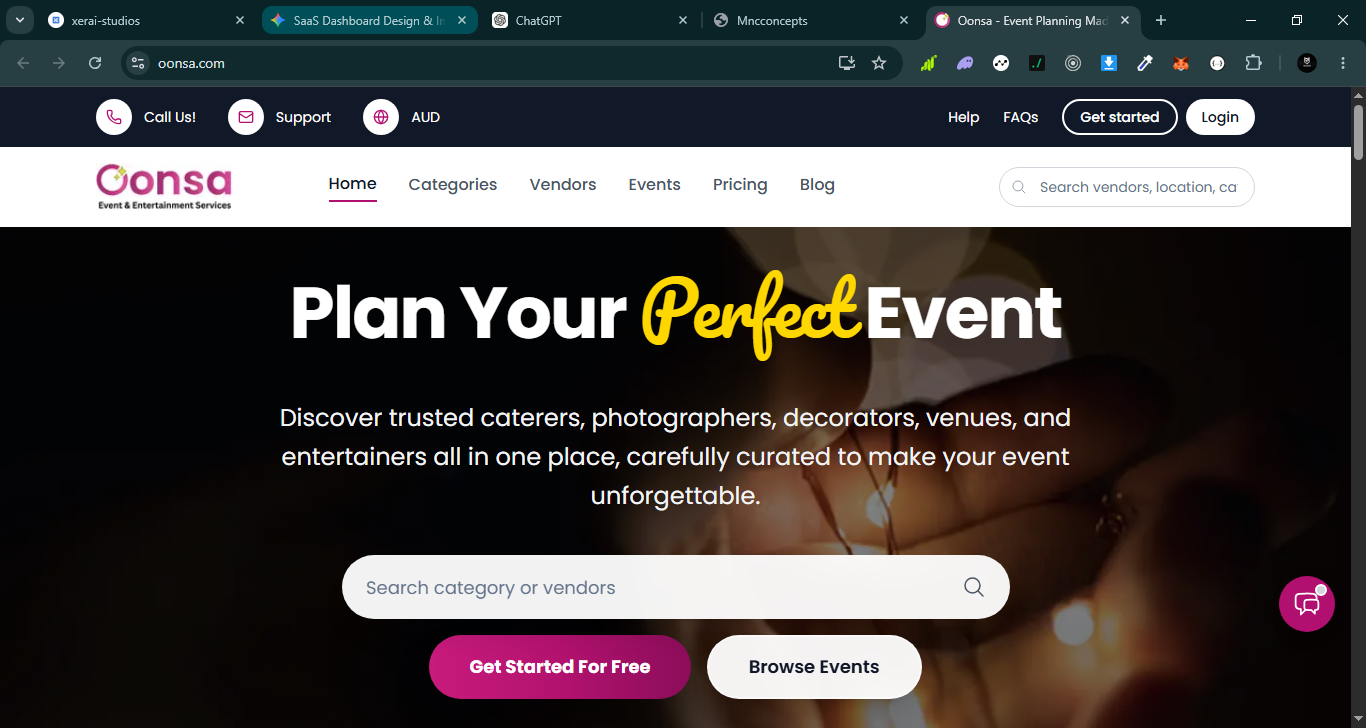
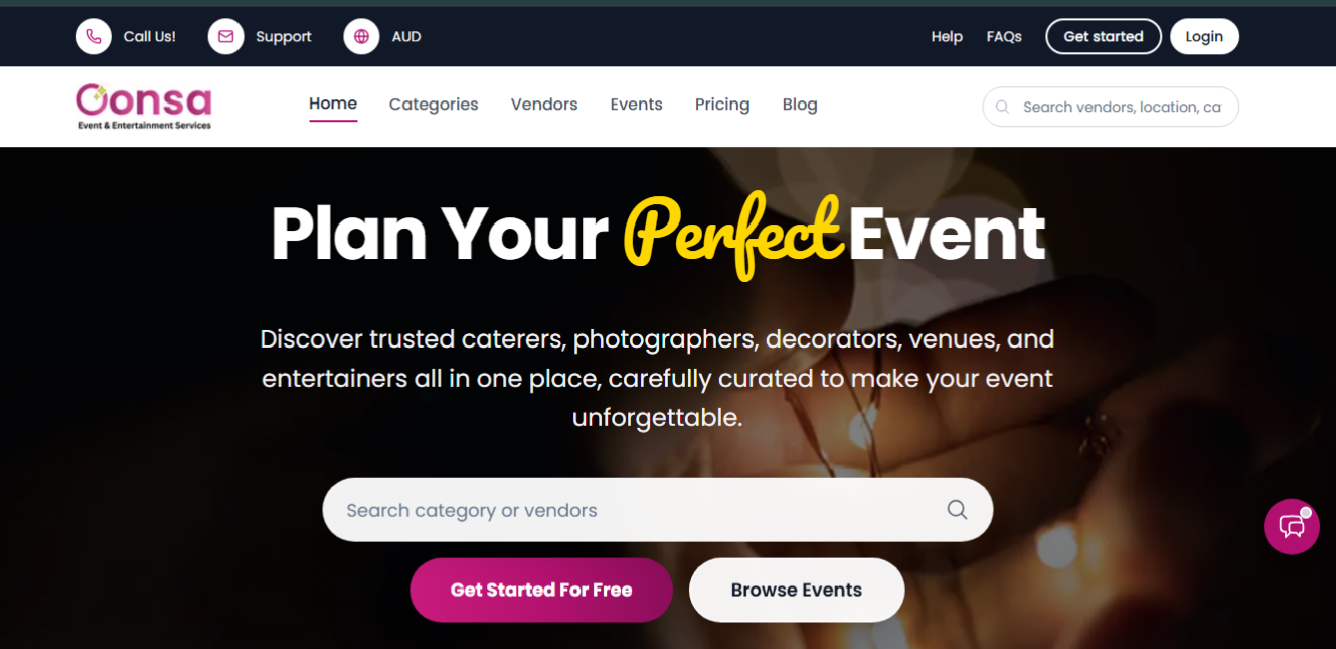
redoit

diff --git a/src/pages/Projects.tsx b/src/pages/Projects.tsx
@@ -9,7 +9,6 @@ import BookCallSheet from "@/components/BookCallSheet";
 
 // Asset Imports
 import projPearlzStore from "@/assets/proj-pearlz-store.png";
-import projStoreapp2 from "@/assets/proj-storeapp2.png";
 import Oonsa from "@/assets/Oonsa.png";
 import projOma from "@/assets/proj-oma.png";
 import projPaywithpi from "@/assets/proj-paywithpi.png";
@@ -17,9 +16,10 @@ import post2dap from "@/assets/post-2dap.png";
 import visaguard from "@/assets/visaguard.jpg";
 import vgalanding from "@/assets/vgalanding.jpg";
 import logoo1 from "@/assets/logoo1.png";
-import logoo2 from "@/assets/logoo2.png";
+import logoo0 from "@/assets/logoo0.png";
 import logoo3 from "@/assets/logoo3.png";
 import logoo4 from "@/assets/logoo4.png";
+import projstoreapp22 from "@/assets/proj-storeapp22.png";
 
 const projects = [
   {
@@ -33,8 +33,8 @@ const projects = [
     caseStudySlug: "Visa-guard-africa App-Landing",
   },
   {
-    title: "Visa Guard Landing Page",
-    category: "DESIGN · DEVELOPMENT · FULL STACK · APP LANDING",
+    title: "Visa Guard Africa Landing Page",
+    category: "DESIGN · DEVELOPMENT · FULL STACK · APP LANDING - WEB",
     description: "A secure visa platform designed to protect Africans from visa scams. Features real-time verification, fraud detection, and a seamless application tracking system.",
     year: "Coming Soon",
     tech: ["Figma", "React", "Node.js", "TypeScript", "MongoDB", "Express"],
@@ -45,8 +45,8 @@ const projects = [
   
   {
     title: "Oonsa Event WebApp",
-    category: "UI/UX DESIGN · WEBSITE",
-    description: "A modern event management app designed to simplify event discovery, ticketing, and planning.",
+    category: "UI/UX DESIGN · WEB-APP",
+    description: "A modern event management app designed to simplify event discovery, ticketing, and planning within Austrailia.",
     year: "2025",
     tech: ["Figma", "Adobe XD", "Illustrator", "Photoshop"],
     image: Oonsa,
@@ -59,7 +59,7 @@ const projects = [
     description: "A mobile marketplace app connecting buyers and sellers in Computer Village. Designed in Figma and built with Flutter.",
     year: "2025",
     tech: ["Flutter", "Figma", "Dart", "Firebase"],
-    image: projStoreapp2,
+    image: projstoreapp22,
     link: "https://cvmarket.ng",
     caseStudySlug: "CVMP App",
   },
@@ -119,7 +119,7 @@ const projects = [
     description: "An ultra-modern brand asset system and logo layout designed for an advanced social media growth engine, matching precision analytics with clean aesthetics.",
     year: "2026",
     tech: ["Illustrator", "Photoshop", "Branding"],
-    image: logoo2,
+    image: logoo0,
     link: null,
     caseStudySlug: null,
   },
@@ -184,10 +184,11 @@ const Projects = () => {
             animate={{ opacity: 1, y: 0 }}
             transition={{ duration: 0.8, ease: [0.16, 1, 0.3, 1] }}
           >
-            <span className="inline-block px-3 py-1 rounded-full bg-secondary text-[10px] font-bold tracking-[0.2em] uppercase mb-6 border border-border">
-              Portfolio
-            </span>
-            <h1 className="font-display text-6xl sm:text-6xl lg:text-8xl font-extrabold tracking-tight leading-[0.9] mb-8">
+            <div className="inline-flex items-center gap-2 px-3 py-1 rounded-full border border-border bg-foreground/5 mb-6">
+              <span className="w-1 h-1 rounded-full bg-foreground animate-pulse" />
+              <span className="text-[10px] font-bold text-foreground tracking-widest uppercase">Selected Projects</span>
+            </div>
+            <h1 className="font-display text-6xl sm:text-6xl lg:text-7xl font-extrabold tracking-tight leading-[0.9] mb-8">
               All Selected <br />
               <span className="text-muted-foreground/40"> Projects </span>
             </h1>

diff --git a/src/pages/Index.tsx b/src/pages/Index.tsx
@@ -226,13 +226,13 @@ const Index = () => {
                   <span className="relative inline-flex rounded-full h-2 w-2 bg-primary" />
                 </span>
                 <Sparkles className="w-3.5 h-3.5 text-primary shrink-0" />
-                <span className="text-xs font-small text-primary tracking-wide uppercase">
+                <span className="text-xs font-small text-primary tracking-tight uppercase">
                   Design & Development
                 </span>
               </div>
             </div>
 
-            <h1 className="font-display text-6xl sm:text-6xl lg:text-7xl font-extrabold leading-[1.05] tracking-tighter text-foreground mb-4">
+            <h1 className="font-Display text-6xl sm:text-6xl lg:text-7xl font-extrabold leading-[1.05] tracking-tighter text-foreground mb-4">
               <TypewriterText
                 text="Creating Digital Experiences That Work."
                 speed={55}
@@ -321,7 +321,7 @@ const Index = () => {
             <div className="absolute -inset-4 rounded-2xl border border-border/40 bg-secondary/20 backdrop-blur-sm -z-10" />
             <div className="absolute -inset-1 rounded-xl bg-gradient-to-br from-primary/10 via-transparent to-blue-500/10 -z-10" />
 
-            <div className="aspect-[4/3] overflow-hidden rounded-xl border border-border/60 shadow-2xl">
+            <div className="aspect-[4/3] overflow-hidden rounded-xl border border-border/60 shadow-1xl">
               <SkeletonImage
                 src="/proj-oma.png"
                 alt="Featured project preview"
@@ -329,7 +329,7 @@ const Index = () => {
               />
             </div>
 
-            <div className="absolute -bottom-5 -left-6 flex items-center gap-3 bg-card border border-border rounded-xl px-4 py-3 shadow-xl backdrop-blur-md">
+            <div className="absolute -bottom-5 -left-6 flex items-center gap-3 bg-card border border-border rounded-xl px-4 py-3 shadow-m backdrop-blur-md">
               <div className="w-8 h-8 rounded-lg bg-primary/10 flex items-center justify-center">
                 <span><ArrowUpRight className="w-4 h-4" /></span>
               </div>
@@ -343,7 +343,7 @@ const Index = () => {
               </div>
             </div>
 
-            <div className="absolute -top-4 -right-4 flex items-center gap-2 bg-card border border-border rounded-full px-3 py-2 shadow-lg">
+            <div className="absolute -top-4 -right-4 flex items-center gap-2 bg-card border border-border rounded-full px-3 py-2 shadow-l">
               <span className="relative flex h-2 w-2">
                 <span className="animate-ping absolute inline-flex h-full w-full rounded-full bg-emerald-400 opacity-75" />
                 <span className="relative inline-flex rounded-full h-2 w-2 bg-emerald-500" />
@@ -410,7 +410,7 @@ const Index = () => {
                 whileInView={{ opacity: 1, y: 0 }}
                 viewport={{ once: true }}
                 transition={{ delay: i * 0.12 }}
-                className="group bg-card border border-border rounded-2xl overflow-hidden shadow-sm hover:shadow-xl hover:-translate-y-1 transition-all duration-300 flex flex-col"
+                className="group bg-card border border-border rounded-2xl overflow-hidden shadow-xm hover:shadow-l hover:-translate-y-1 transition-all duration-300 flex flex-col"
               >
                 <div className="relative w-full h-48 bg-secondary overflow-hidden">
                   <SkeletonImage
@@ -492,7 +492,7 @@ const Index = () => {
               >
                 <Link
                   to="/projects"
-                  className="group flex flex-col bg-card border border-border rounded-2xl overflow-hidden shadow-sm hover:shadow-xl hover:-translate-y-1.5 transition-all duration-300 h-full"
+                  className="group flex flex-col bg-card border border-border rounded-2xl overflow-hidden shadow-sm hover:shadow-xm hover:-translate-y-1.5 transition-all duration-300 h-full"
                 >
                   <div
                     className={`relative h-52 overflow-hidden bg-gradient-to-br ${project.color}`}

diff --git a/src/pages/About.tsx b/src/pages/About.tsx
@@ -50,7 +50,7 @@ const experience = [
     period: "Present",
     type: "Full-time",
     description:
-      "Leading product design for startups and established brands. Creating user-centered designs, conducting user research, building prototypes, and delivering scalable design systems that drive business outcomes.",
+      "Leading product design and development team for startups and established brands. Creating user-centered designs, conducting user research, building prototypes, and delivering scalable design systems that drive business outcomes.",
     icon: Palette,
   },
   {
@@ -118,9 +118,9 @@ const About = () => {
             animate={{ opacity: 1, y: 0 }}
             transition={{ duration: 0.9, ease: [0.22, 1, 0.36, 1] }}
           >
-            <div className="inline-flex items-center gap-2 px-3.5 py-1.5 rounded-full border border-border bg-secondary mb-6">
-              <span className="w-1.5 h-1.5 rounded-full bg-foreground animate-pulse" />
-              <span className="text-xs font-medium text-foreground tracking-wide uppercase">Our Story</span>
+            <div className="inline-flex items-center gap-2 px-3 py-1 rounded-full border border-border bg-foreground/5 mb-6">
+              <span className="w-1 h-1 rounded-full bg-foreground animate-pulse" />
+              <span className="text-[10px] font-bold text-foreground tracking-widest uppercase">Our Story</span>
             </div>
 
             <div className="grid lg:grid-cols-2 gap-12 items-end">

diff --git a/src/components/Navbar.tsx b/src/components/Navbar.tsx
@@ -17,9 +17,9 @@ const Navbar = () => {
   const location = useLocation();
 
   return (
-    <header className="fixed top-4 left-0 right-0 z-50 w-full px-4 sm:px-6 pointer-events-none">
+    <header className="fixed top-3 left-0 right-0 z-50 w-full px-4 sm:px-6 pointer-events-none">
       {/* ── DESKTOP & MOBILE MAIN WRAPPER ── */}
-      <nav className="max-w-6xl mx-auto bg-background/70 backdrop-blur-xl border border-border/50 rounded-2xl shadow-xl shadow-black/[0.03] pointer-events-auto transition-all">
+      <nav className="max-w-6xl mx-auto bg-background/50 backdrop-blur-xl border border-border/20 rounded-2xl shadow-xl shadow-black/[0.02] pointer-events-auto transition-all">
         <div className="px-6 flex items-center justify-between h-16">
           
           {/* ── Brand Logo & Profile Image Group ── */}
@@ -38,7 +38,7 @@ const Navbar = () => {
               <span className="font-display text-base font-black tracking-tight text-foreground group-hover:text-muted-foreground transition-colors">
                 Mncconcepts.
               </span>
-              <span className="text-[6.5px] font-black tracking-[0.25em] uppercase text-muted-foreground/80 mt-1">
+              <span className="text-[6.5px] font-black tracking-[0.25em] uppercase text-muted-foreground/80 ">
                 Development & Design
               </span>
             </div>

diff --git a/src/pages/Services.tsx b/src/pages/Services.tsx
@@ -429,7 +429,7 @@ const Services = () => {
                 transition={{ delay: i * 0.12 }}
                 className={`relative rounded-2xl border flex flex-col overflow-hidden transition-all duration-300 hover:-translate-y-1 ${
                   tier.featured
-                    ? "bg-foreground text-background border-foreground shadow-2xl scale-[1.02]"
+                    ? "bg-foreground text-background border-foreground shadow1xl scale-[1.02]"
                     : "bg-card border-border hover:border-foreground"
                 }`}
               >